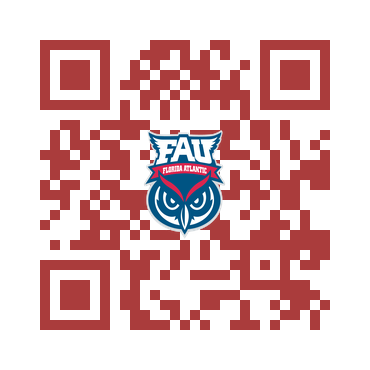
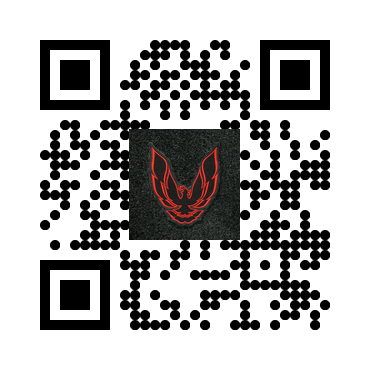
new backround color feature for premium page

diff --git a/templates/premium.html b/templates/premium.html
@@ -7,13 +7,13 @@
     <style>
         body {
             font-family: Arial, sans-serif;
-            background-color: #EAF4F8; /* Matches the light blue in your logo */
+            background-color: #EAF4F8;
             display: flex;
             justify-content: center;
-            align-items: flex-start; /* Align items at the top with padding */
+            align-items: flex-start;
             height: 100vh;
             margin: 0;
-            padding-top: 20px; /* Ensures space above the logo */
+            padding-top: 20px;
         }
 
         .container {
@@ -24,13 +24,12 @@
             width: 100%;
             max-width: 400px;
             text-align: center;
-            border: 5px solid #B7E3E4; /* Adds a complementary border */
+            border: 5px solid #B7E3E4;
             position: relative;
         }
 
         img {
-            margin-top: 0; /* No additional margin needed with body padding */
-            max-width: 60%; /* Keeps the size consistent */
+            max-width: 60%;
             height: auto;
             margin-bottom: 20px;
         }
@@ -90,16 +89,18 @@
     </style>
     <script>
         function syncColorPicker() {
+            const primaryColorInput = document.getElementById('color');
             const colorPicker = document.getElementById('colorPicker');
-            const colorInput = document.getElementById('color');
 
+            // Sync color picker with the input field
             colorPicker.addEventListener('input', () => {
-                colorInput.value = colorPicker.value;
+                primaryColorInput.value = colorPicker.value;
             });
 
-            colorInput.addEventListener('input', () => {
-                if (colorInput.value.startsWith('#') && colorInput.value.length === 7) {
-                    colorPicker.value = colorInput.value;
+            // Sync input field with color picker
+            primaryColorInput.addEventListener('input', () => {
+                if (primaryColorInput.value.startsWith('#') && primaryColorInput.value.length === 7) {
+                    colorPicker.value = primaryColorInput.value;
                 }
             });
         }
@@ -109,23 +110,29 @@
 </head>
 <body>
     <div class="container">
-        <!-- Logo -->
         <img src="{{ url_for('static', filename='StyleQRNEWNEW.png') }}" alt="Style QR Logo">
 
         <form action="{{ url_for('generate_qr') }}" method="POST" enctype="multipart/form-data">
             <label for="url">Enter URL:</label>
             <input type="text" id="url" name="url" placeholder="https://example.com" required>
 
-            <label for="color">Choose Color:</label>
-            <input type="text" id="color" name="color" placeholder="e.g., red">
-
-            <label for="colorPicker">Choose Color:</label>
-            <input type="color" id="colorPicker" name="colorPicker" value="#000000">
+            <label for="color">Choose QR Code Color:</label>
+            <input type="text" id="color" name="color" placeholder="e.g., red or #FF5733">
             
+            <label for="colorPicker">Pick QR Code Color:</label>
+            <input type="color" id="colorPicker" name="colorPicker" value="#000000">
+
             <label for="shape">Choose Data Pattern:</label>
             <select id="shape" name="shape">
                 <option value="square">Square</option>
-                <option value="circle">Circle (Black only available)</option>
+                <option value="circle">Circle (only black/white available)</option>
+            </select>
+
+            <label for="background_color">Background Color:</label>
+            <select id="background_color" name="background_color">
+                <option value="white" selected>White</option>
+                <option value="gray">Gray</option>
+                <option value="black">Black</option>
             </select>
 
             <label for="image">Upload Image/Logo:</label>

diff --git a/app.py b/app.py
@@ -24,7 +24,7 @@ if not os.path.exists(app.config['UPLOAD_FOLDER']):
 # Dummy user data (for demonstration)
 USER_DATA = {
     "admin@example.com": {"password": "password123", "role": "admin", "is_premium": False},
-    "user@example.com": {"password": "user123", "role": "user", "is_premium": True},  # Premium user example
+    "user@example.com": {"password": "user123", "role": "user", "is_premium": True},
 }
 
 # URL validation function
@@ -121,37 +121,52 @@ def generate_qr():
         flash('Please log in to access this feature.', 'warning')
         return redirect(url_for('login'))
 
+    # Get form data
     url = request.form['url']
     color = request.form.get('color', '').strip().lower()
+    background_color = request.form.get('background_color', 'white').strip().lower()
     shape = request.form.get('shape', 'square')
     image_file = request.files.get('image', None)
 
+    # Validate URL
     if not is_valid_url(url):
         flash('Invalid URL. Please provide a valid URL.', 'danger')
         return redirect(request.referrer)
 
+    # Validate QR code color
     if not color or not (is_valid_hex_color(color) or is_valid_color_name(color)):
         color = 'black'
 
+    # Validate background color
+    if background_color not in ['white', 'gray', 'black']:
+        flash('Invalid background color selected. Please choose a valid option.', 'danger')
+        return redirect(request.referrer)
+
+    # Create QR Code
     qr = qrcode.QRCode(
         version=1, box_size=10, border=4, error_correction=qrcode.constants.ERROR_CORRECT_H
     )
     qr.add_data(url)
     qr.make(fit=True)
 
+    # Generate QR code
     if shape == "circle":
         img = qr.make_image(
             fill_color=color,
-            back_color="white",
+            back_color=background_color,
             image_factory=StyledPilImage,
-            module_drawer=CircleModuleDrawer(),
+            module_drawer=CircleModuleDrawer()
         )
     else:
-        img = qr.make_image(fill_color=color, back_color="white")
+        img = qr.make_image(fill_color=color, back_color=background_color)
 
+    img = img.convert("RGBA")
+
+    # Add overlay image if provided
     if image_file and image_file.filename != '':
         img = add_image_to_qr(img, image_file)
 
+    # Save QR Code
     filename = 'qr_code.png'
     file_path = os.path.join(app.config['UPLOAD_FOLDER'], filename)
     img.save(file_path, format='PNG')
